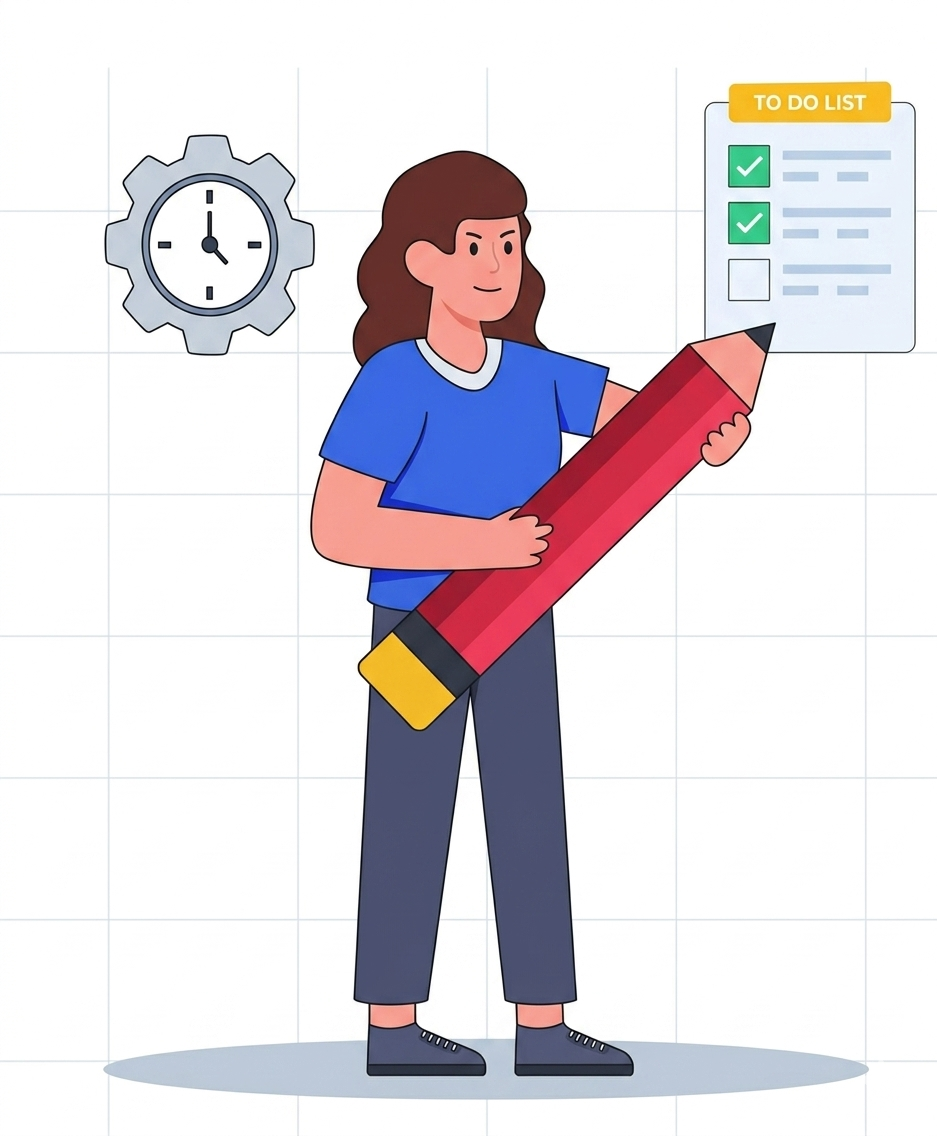
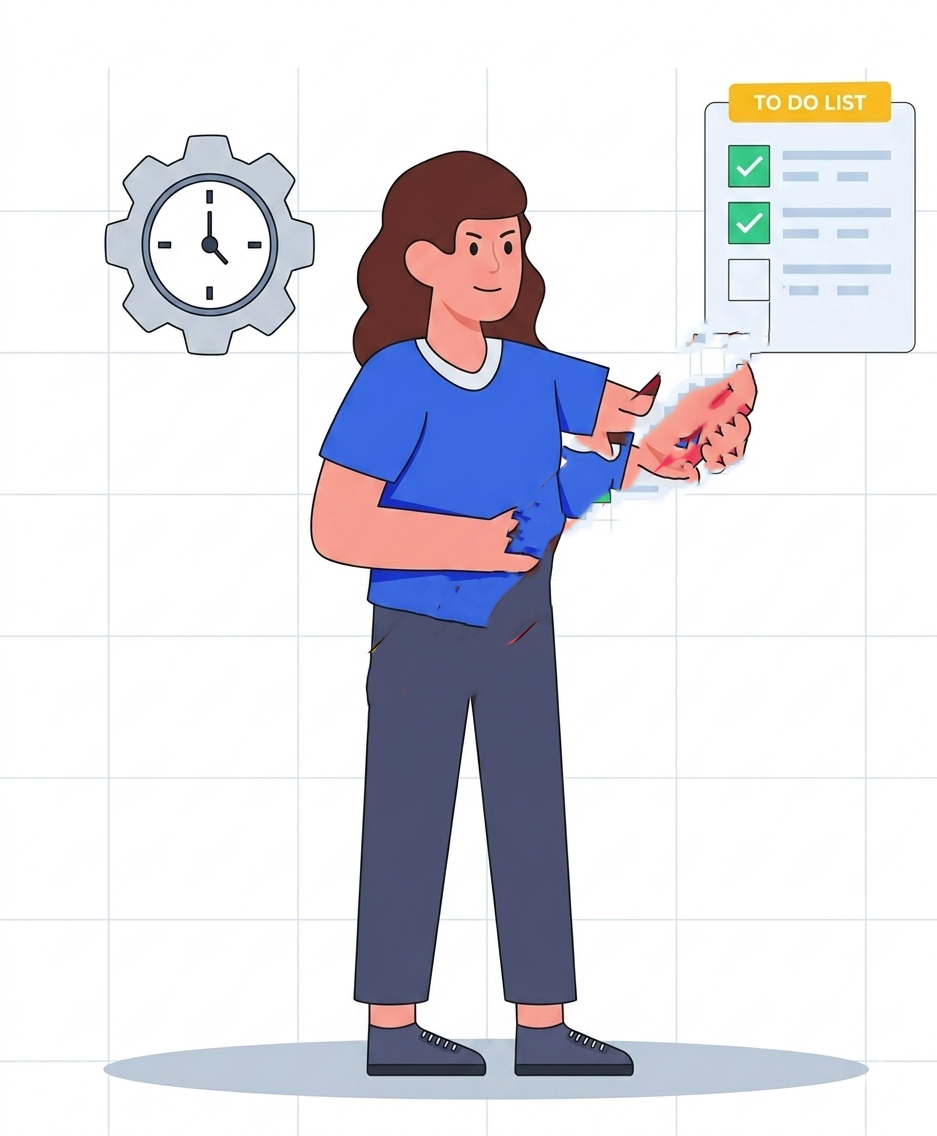
uptdashboard

Changed region(s): [[0.3714, 0.2773, 0.8356, 0.647]]

diff --git a/src/dashboard.jsx b/src/dashboard.jsx
@@ -72,7 +72,7 @@ export const Dash_Board = () => {
                   name="email"
                   id="topbar-search"
                   className="bg-gray-50 border border-gray-300 text-gray-900 text-sm rounded-lg focus:ring-primary-500 focus:border-primary-500 block w-80 pl-10 p-2.5 dark:bg-gray-700 dark:border-gray-600 dark:placeholder-gray-400 dark:text-white dark:focus:ring-primary-500 dark:focus:border-primary-500"
-                  placeholder="Search"
+                  placeholder="Search Task"
                 />
               </div>
             </form>
@@ -647,7 +647,7 @@ export const Dash_Board = () => {
                   name="search"
                   id="sidebar-search"
                   className="bg-gray-50 border border-gray-300 text-gray-900 text-sm rounded-lg focus:ring-primary-500 focus:border-primary-500 block w-full pl-10 p-2 dark:bg-gray-700 dark:border-gray-600 dark:placeholder-gray-400 dark:text-white dark:focus:ring-primary-500 dark:focus:border-primary-500"
-                  placeholder="Search"
+                  placeholder="Search Task"
                 />
               </div>
             </form>

diff --git a/src/component/AddTaskForm.jsx b/src/component/AddTaskForm.jsx
@@ -12,7 +12,7 @@ export const AddTaskForm = () => {
 
   return (
     <>
-      <Button onClick={() => setVisible(true)} label="Add Task" size="small" />
+      <Button onClick={() => setVisible(true)} label="Add Task" severity='info' size="small" />
 
       <Dialog
         className="w-100"

diff --git a/src/component/Calendar.jsx b/src/component/Calendar.jsx
@@ -8,7 +8,7 @@ export const Calendar = () => {
   const [date, setDate] = useState(dueDates[0]);
 
   return (
-    <div className="border-2 rounded-lg border-gray-300 dark:border-gray-600 h-48 md:h-72">
+    <div className="border-2 rounded-lg border-gray-300 dark:border-gray-600 h-full md:h-72">
       <div className="relative flex items-start justify-center h-full">
         <div className="card flex justify-content-center w-full h-full">
           <PrimeCalendar

diff --git a/src/main.jsx b/src/main.jsx
@@ -8,6 +8,7 @@ import { Dash_Board } from "./dashboard";
 import { Totals } from "./component/Totals";
 import { MyTask } from "./pages/Dashboard/MyTask";
 import { Kanban } from "./pages/Dashboard/Kanban";
+import { Calendar } from "./component/Calendar";
 const App = () => (
   <PrimeReactProvider>
     <Router>
@@ -16,6 +17,7 @@ const App = () => (
         <Route element={<Dash_Board/>}>
           <Route path="/overview" element={<Totals />} />
           <Route path="/mytask" element={<MyTask />} />
+          <Route path="/calendar" element={<Calendar/>}/>
         </Route>
         <Route path='/kanban' element={<Kanban/>} />
         <Route path="*" element={<div className="p-4">Page Not Found</div>} />